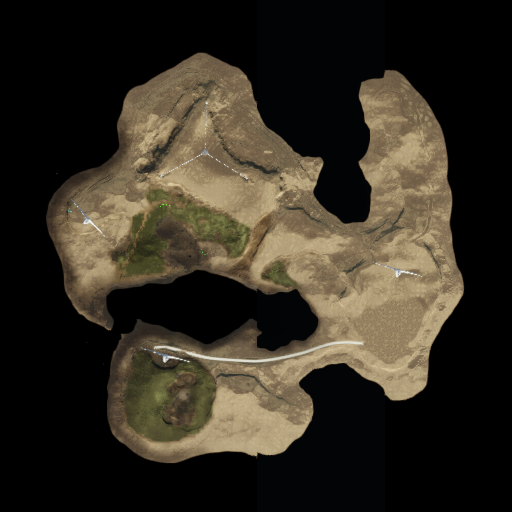
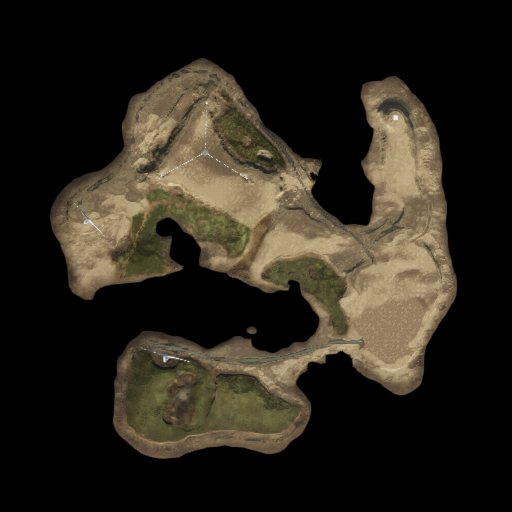
Minimal changes for v0.9.4.

diff --git a/TODO.md b/TODO.md
@@ -2,6 +2,5 @@
 
 ## Version v1.0.0
 * Ability to move the camera on the map's X/Y directions to only capture chunks.
-* Make the camera-to-map origin point moveable.
 * Generate multiple texture tiles with given size to achieve larger map sizes.
 * Threading if possible.

diff --git a/CHANGELOG.md b/CHANGELOG.md
@@ -1,5 +1,9 @@
 # World Map Texture Generation Tool - Changelog
 
+## Version v0.9.4
+### Fixed
+* Depth resoultion by increasing camera's near value.
+
 ## Version v0.9.3
 ### Added
 * Generation progress dialog.
